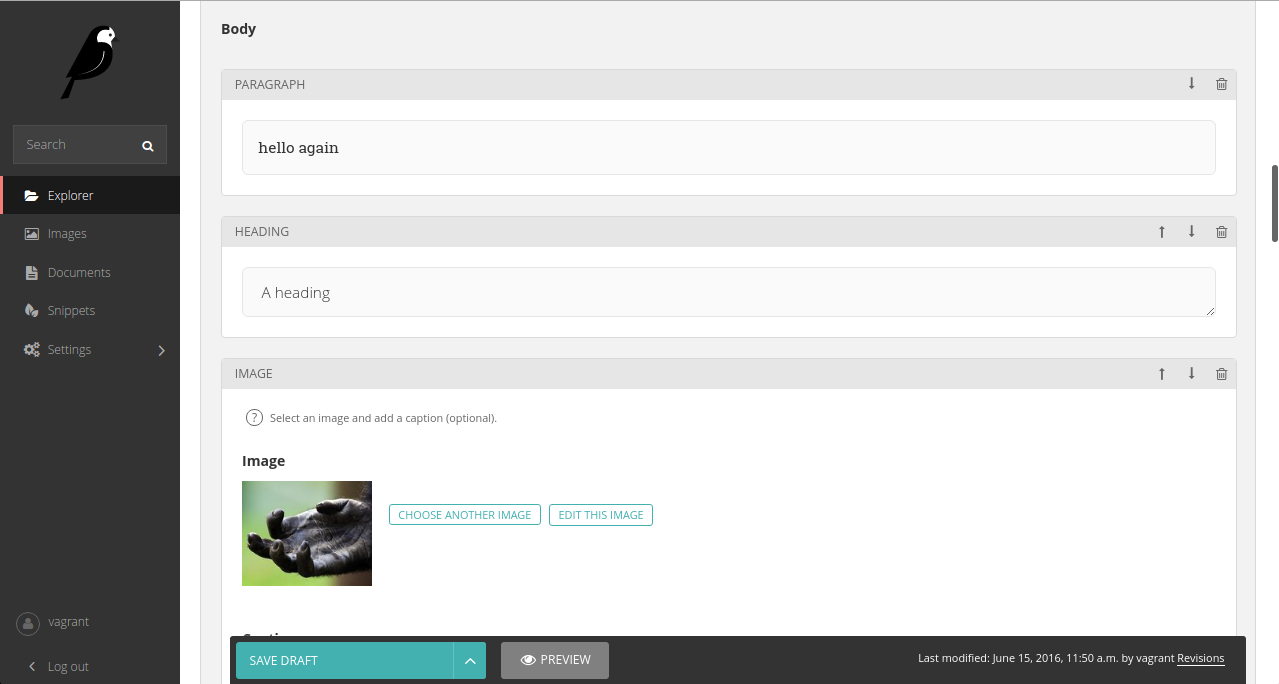
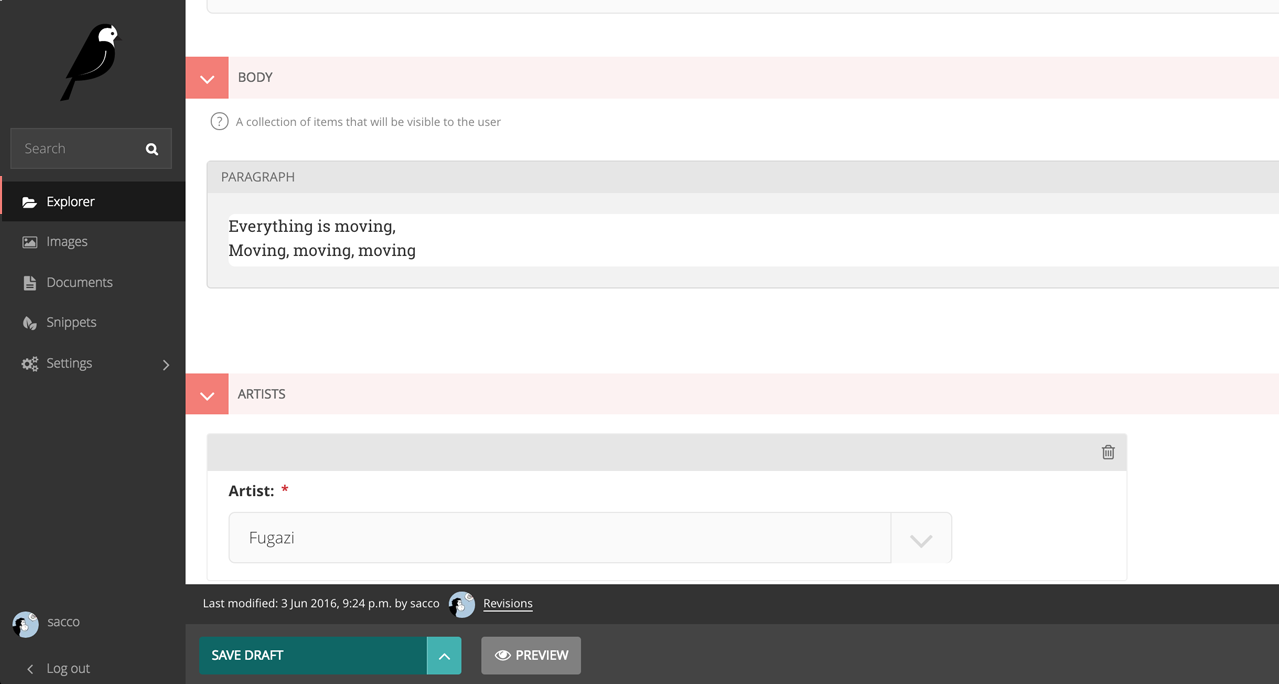
Amends to readme and screenshot

diff --git a/README.md b/README.md
@@ -1,6 +1,15 @@
 Wagtail Better Editor
 =====================
-This is an improvement to the Wagtail editor interface that cleans up a lot of styles and allows a lot more objects to be nested.
+This is an amended version of the Wagtail editor interface that makes it easier for users more easily visualises nested items and corrects a number of minor styling issues. Changes
+
+ - Much improved UI for nested StreamFields
+ - Consistency of UI presentation between inline panels, streamfield panels, multipanels etc.
+ - Always visible help text
+ - Consistent alignment of titles, fields and help text
+ - Consistent alignment of success text, breadcrumb and title
+ - Separation of meta data and actions in editor footer
+ - Conforms AA to WCAG
+ - Styling added to `delete` and `unpublish` actions in dropdown menu 
 
 ![Screenshot](screenshot.png)
 
